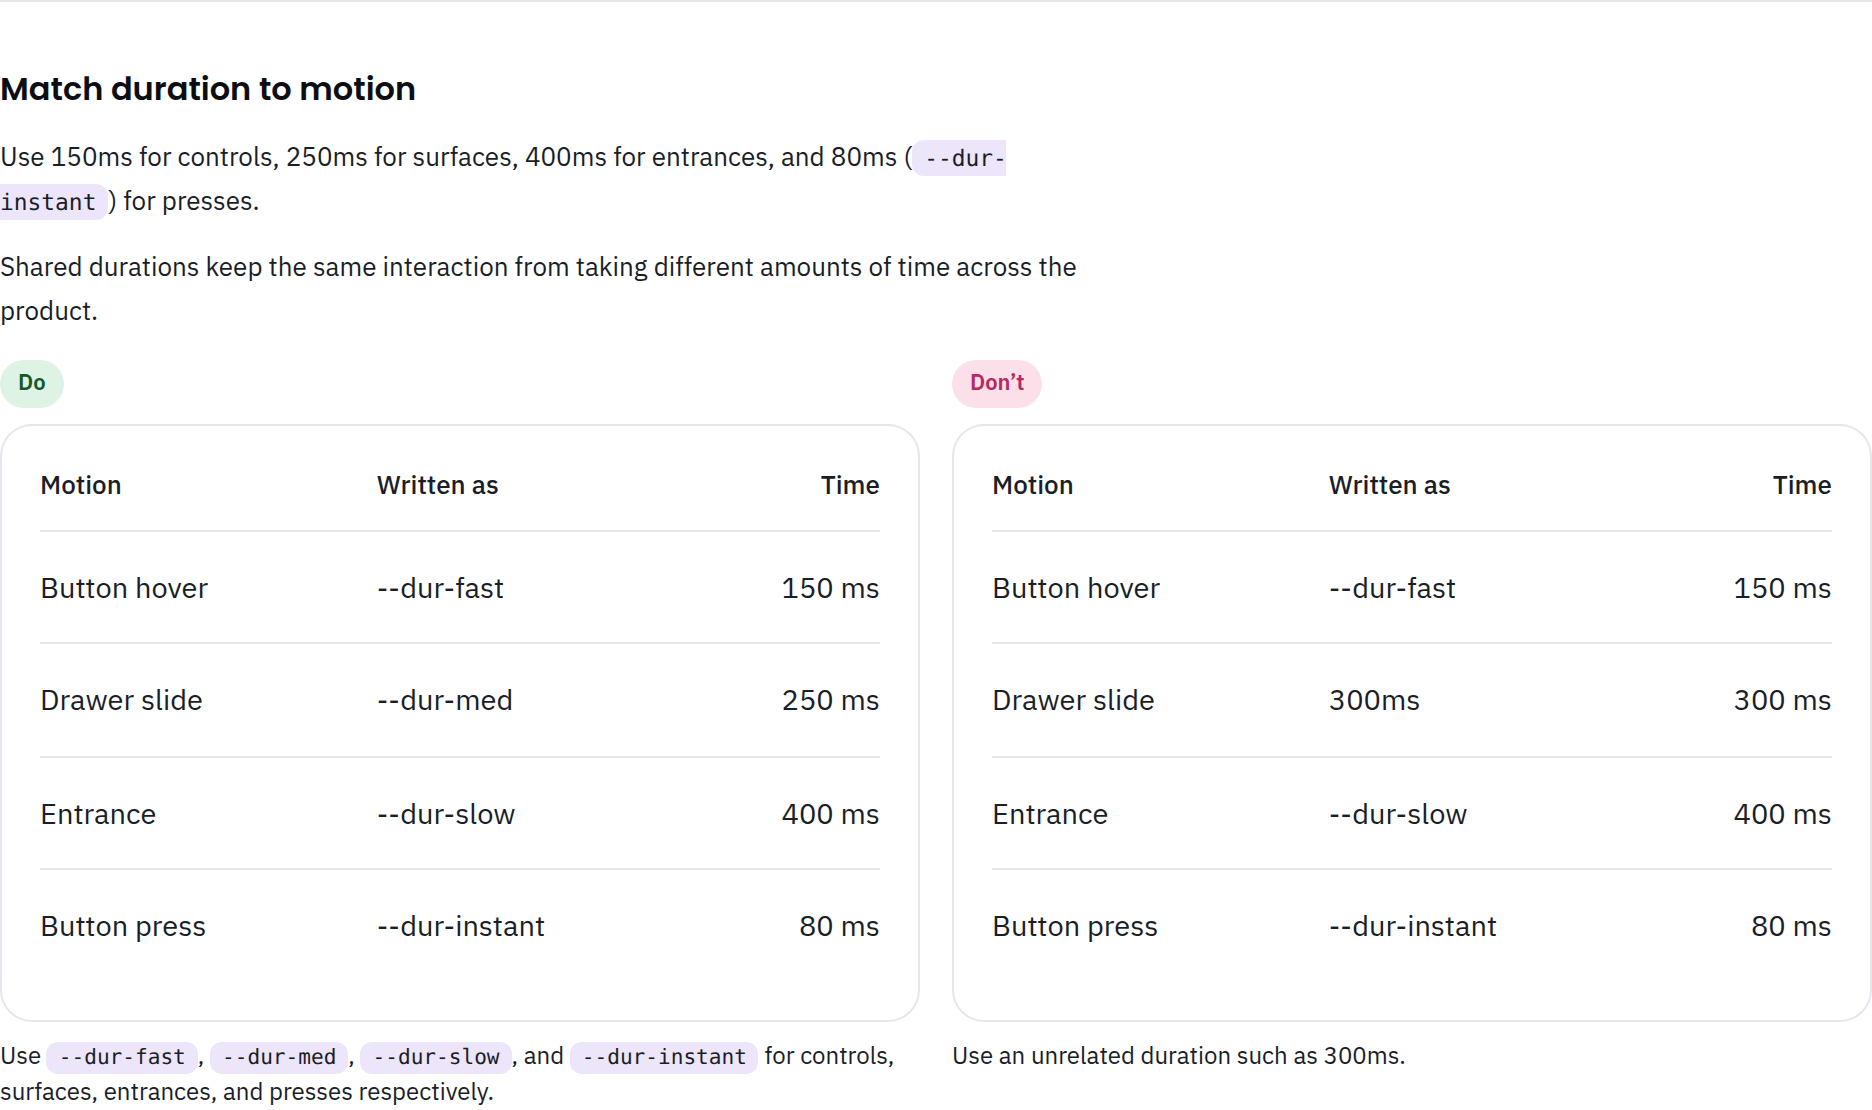
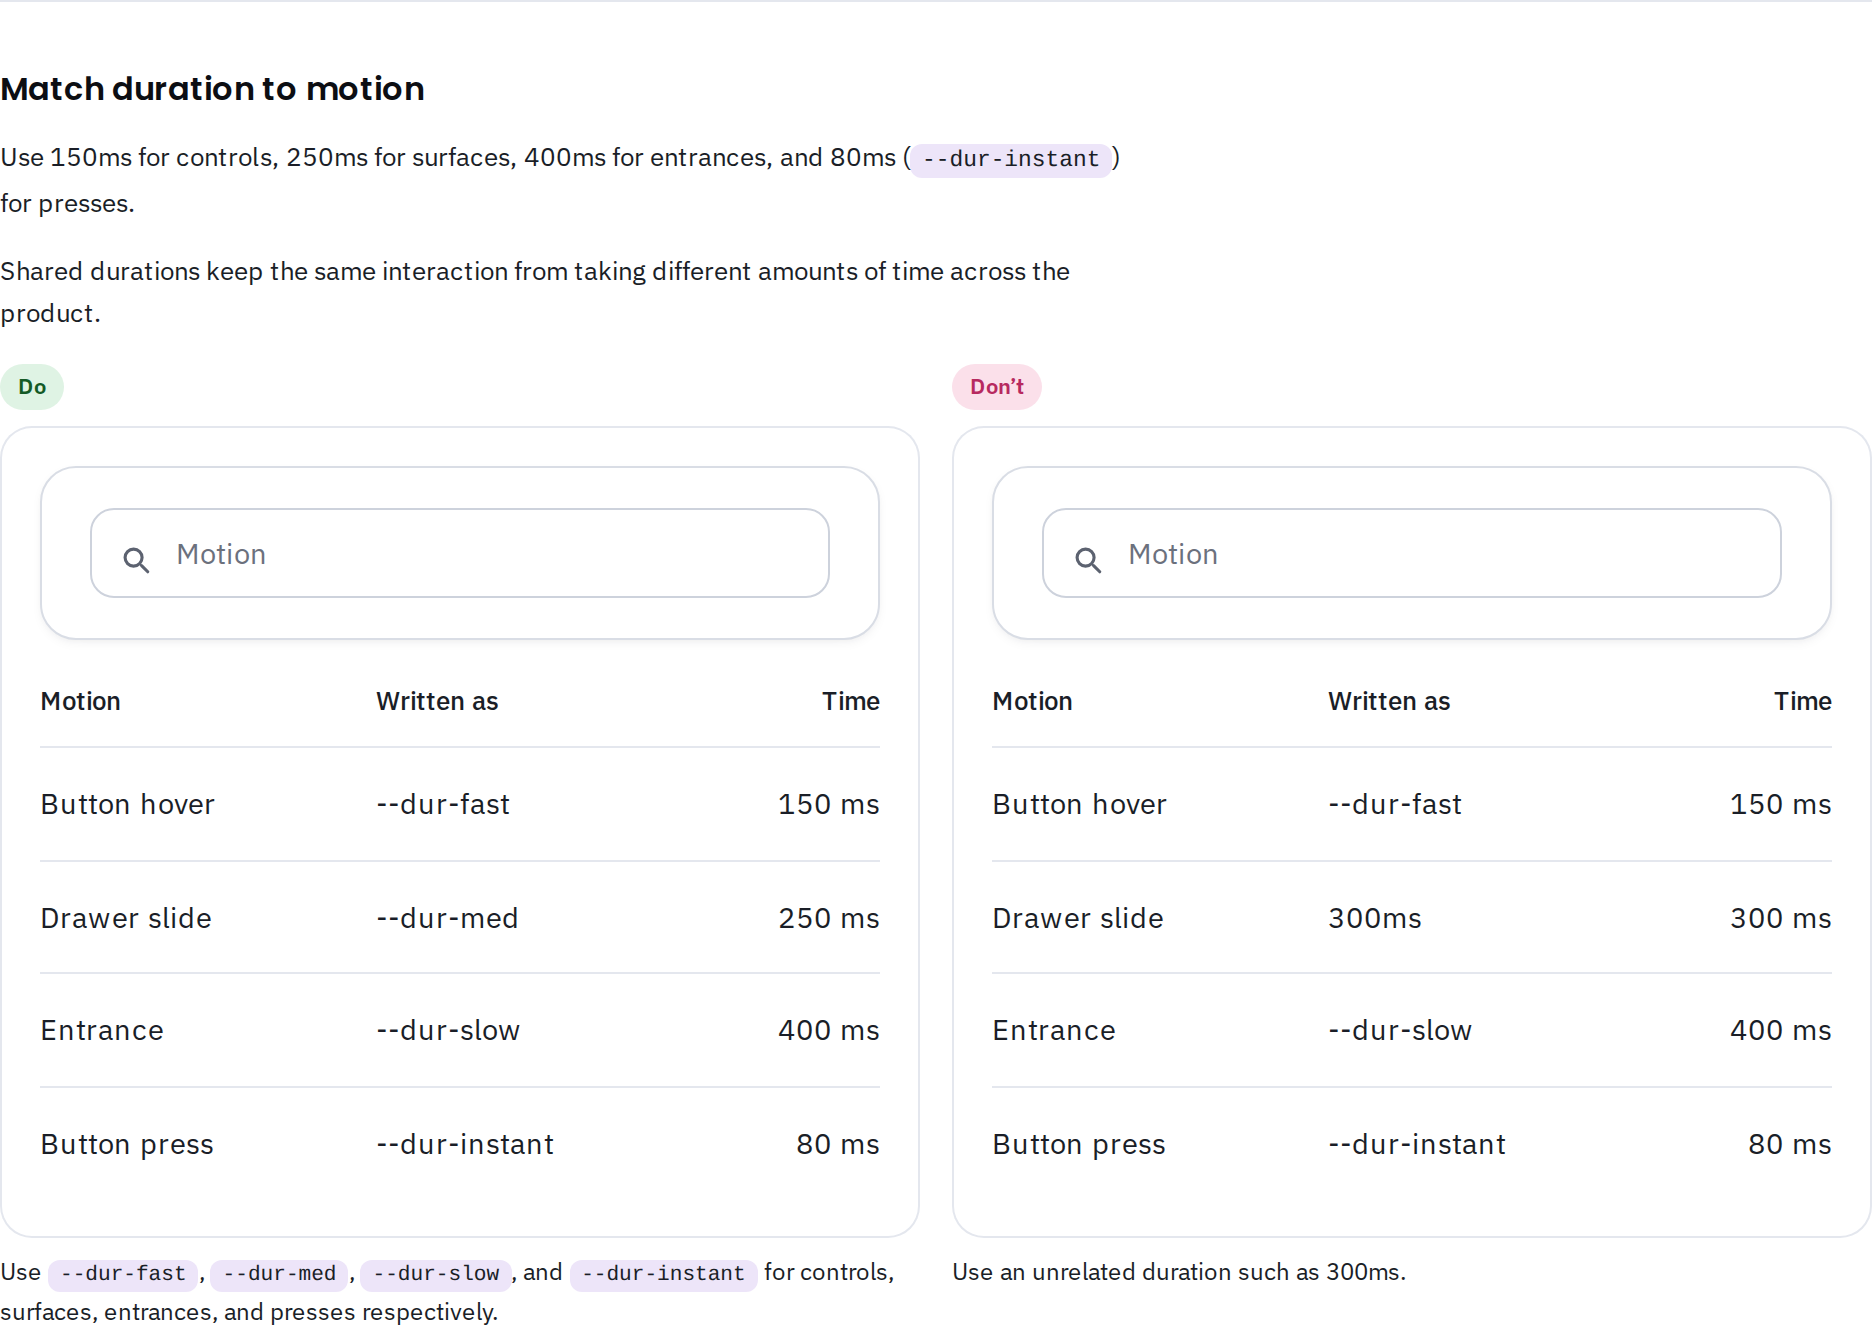
Motion: put a filter bar above each specimen table (#768)
The kit rule "Give every table its filter bar" covers the Motion
specimens, and stories/filter-bar-fit.test.js failed on them. The film
frames grow to 296 px so both rows still show.

diff --git a/stories/guidelines/Motion.stories.tsx b/stories/guidelines/Motion.stories.tsx
@@ -4,6 +4,7 @@ import { DrawerPicture, GuidelinePage } from '../_guideline';
 import { Badge } from '../../react/src/primitives/Badge';
 import { KeyValueList } from '../../react/src/KeyValueList';
 import { Snippet } from '../../react/src/Snippet';
+import { RestingFilters } from '../_table-filters';
 // @ts-expect-error -- plain JS story modules, read by the Node gates as well
 import { loadGuideline } from './_markdown.js';
 // @ts-expect-error -- plain JS story modules, read by the Node gates as well
@@ -15,13 +16,13 @@ const content = await loadGuideline('motion.md', new URL('../../guidelines/motio
 // drawer is hidden, so the first frame is the page alone. The half frame draws the
 // panel and the scrim where --ease has them at that time.
 type Step = 'closed' | 'half' | 'open';
-const Page = () => <table className="ui-table">
+const Page = () => <div className="ui-card-stack"><RestingFilters search="Search payouts" placeholder="ID" label="Payout filters" /><table className="ui-table">
   <thead><tr><th>ID</th><th className="ui-table__num">Net</th><th>Status</th></tr></thead>
   <tbody>
     <tr><td>1162</td><td className="ui-table__num">14,942.27</td><td><Badge variant="success">Paid</Badge></td></tr>
     <tr><td>1161</td><td className="ui-table__num">9,310.00</td><td><Badge variant="success">Paid</Badge></td></tr>
   </tbody>
-</table>;
+</table></div>;
 const Film = ({ frames }: { frames: [string, Step][] }) => <div className="gm-film">
   {frames.map(([time, step]) => [
     <p key={`${time}-t`}>{time}</p>,
@@ -37,11 +38,11 @@ const SLIDE: [string, Step][] = [['0 ms', 'closed'], ['125 ms, 78% of the way', 
 const JUMP: [string, Step][] = [['0 ms', 'closed'], ['16 ms, the next frame', 'open']];
 
 // What each motion is written with.
-const Durations = ({ rows }: { rows: [string, string, string][] }) => <div className="gl-stage"><table className="ui-table">
+const Durations = ({ rows }: { rows: [string, string, string][] }) => <div className="gl-stage"><div className="ui-card-stack"><RestingFilters search="Search motions" placeholder="Motion" label="Motion filters" /><table className="ui-table">
   <thead><tr><th>Motion</th><th>Written as</th><th className="ui-table__num">Time</th></tr></thead>
   <tbody>{rows.map(([what, token, time]) =>
     <tr key={what}><td>{what}</td><td>{token}</td><td className="ui-table__num">{time}</td></tr>)}</tbody>
-</table></div>;
+</table></div></div>;
 const Css = ({ code }: { code: string }) => <div className="gl-stage"><Snippet label="css" code={code} copy={false} /></div>;
 
 const specimens = [

diff --git a/stories/guidelines/_motion.js b/stories/guidelines/_motion.js
@@ -14,7 +14,7 @@ export const SPEC_CSS = `
   <style>
     .gm-film { display: flex; flex-direction: column; gap: var(--space-2); }
     .gm-film > p + .gl-stage { margin-bottom: var(--space-2); }
-    .gm-frame { position: relative; height: 176px; overflow: hidden; padding: var(--space-4); }
+    .gm-frame { position: relative; height: 296px; overflow: hidden; padding: var(--space-4); }
     .gm-frame .ui-drawer { position: absolute; }
     .gm-frame .ui-drawer__panel { width: 70%; }
     /* Half of --dur-med: --ease has covered 78% of the travel, so 22% of the
